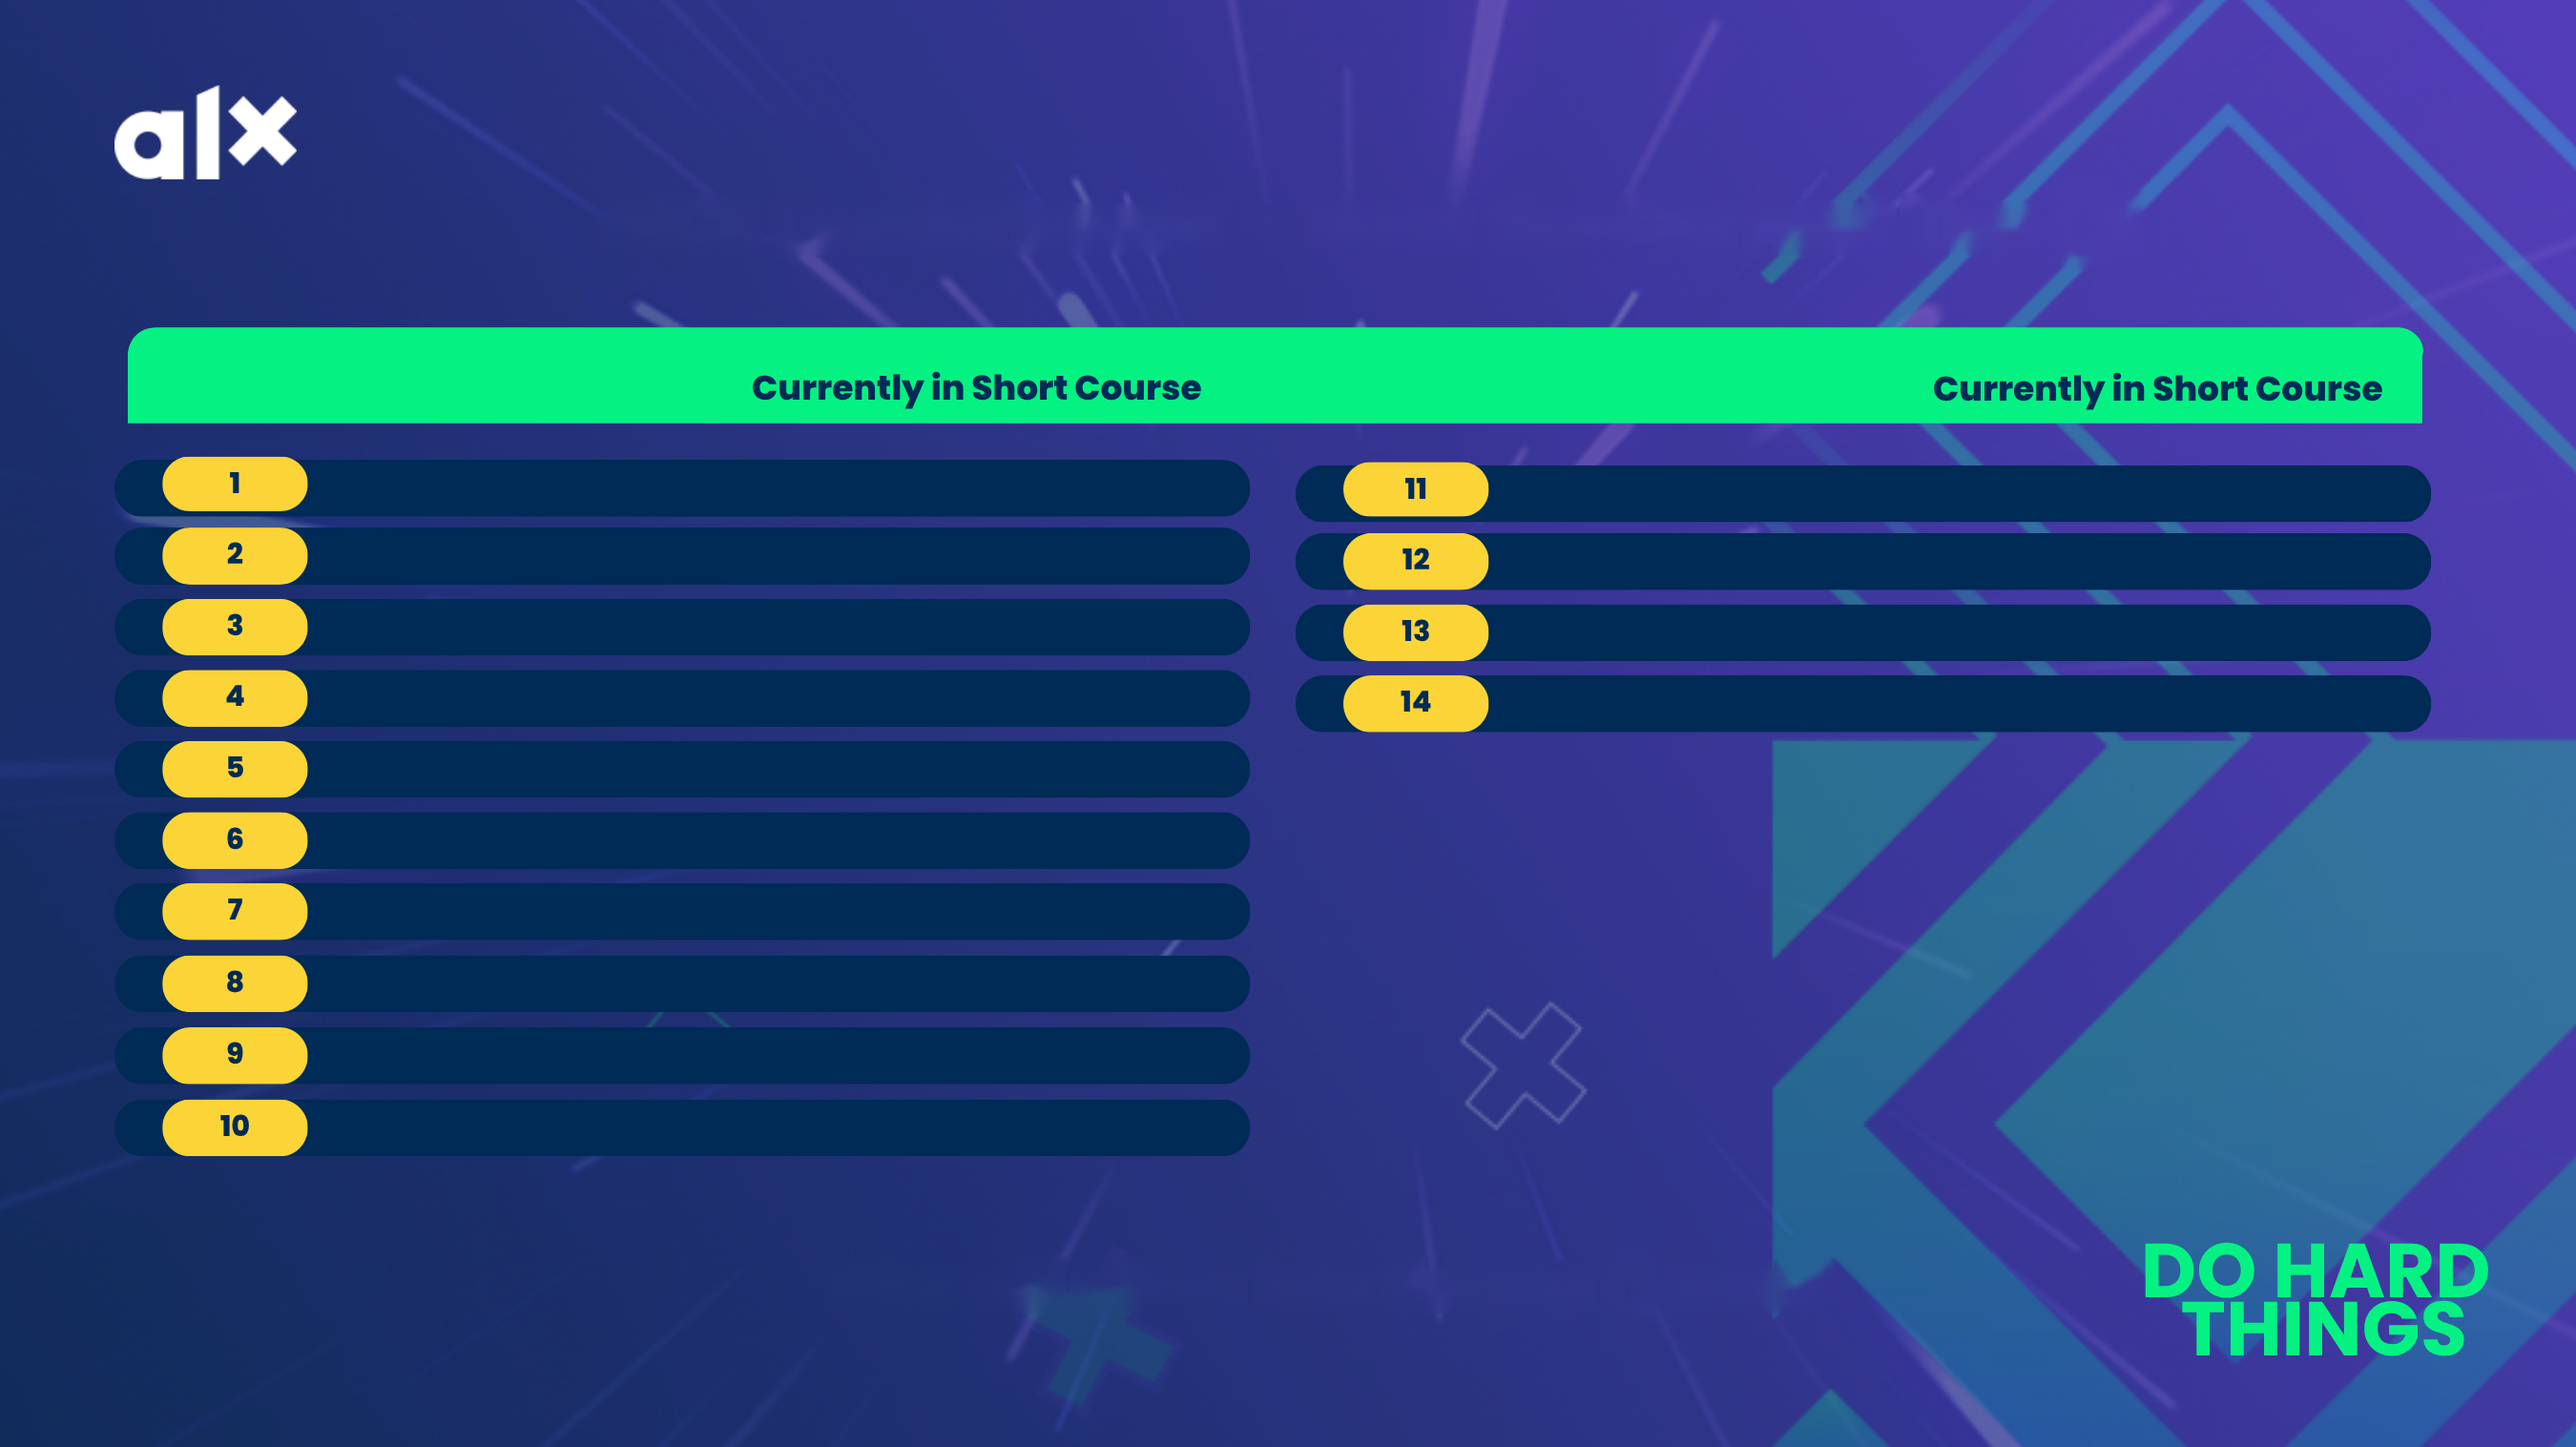
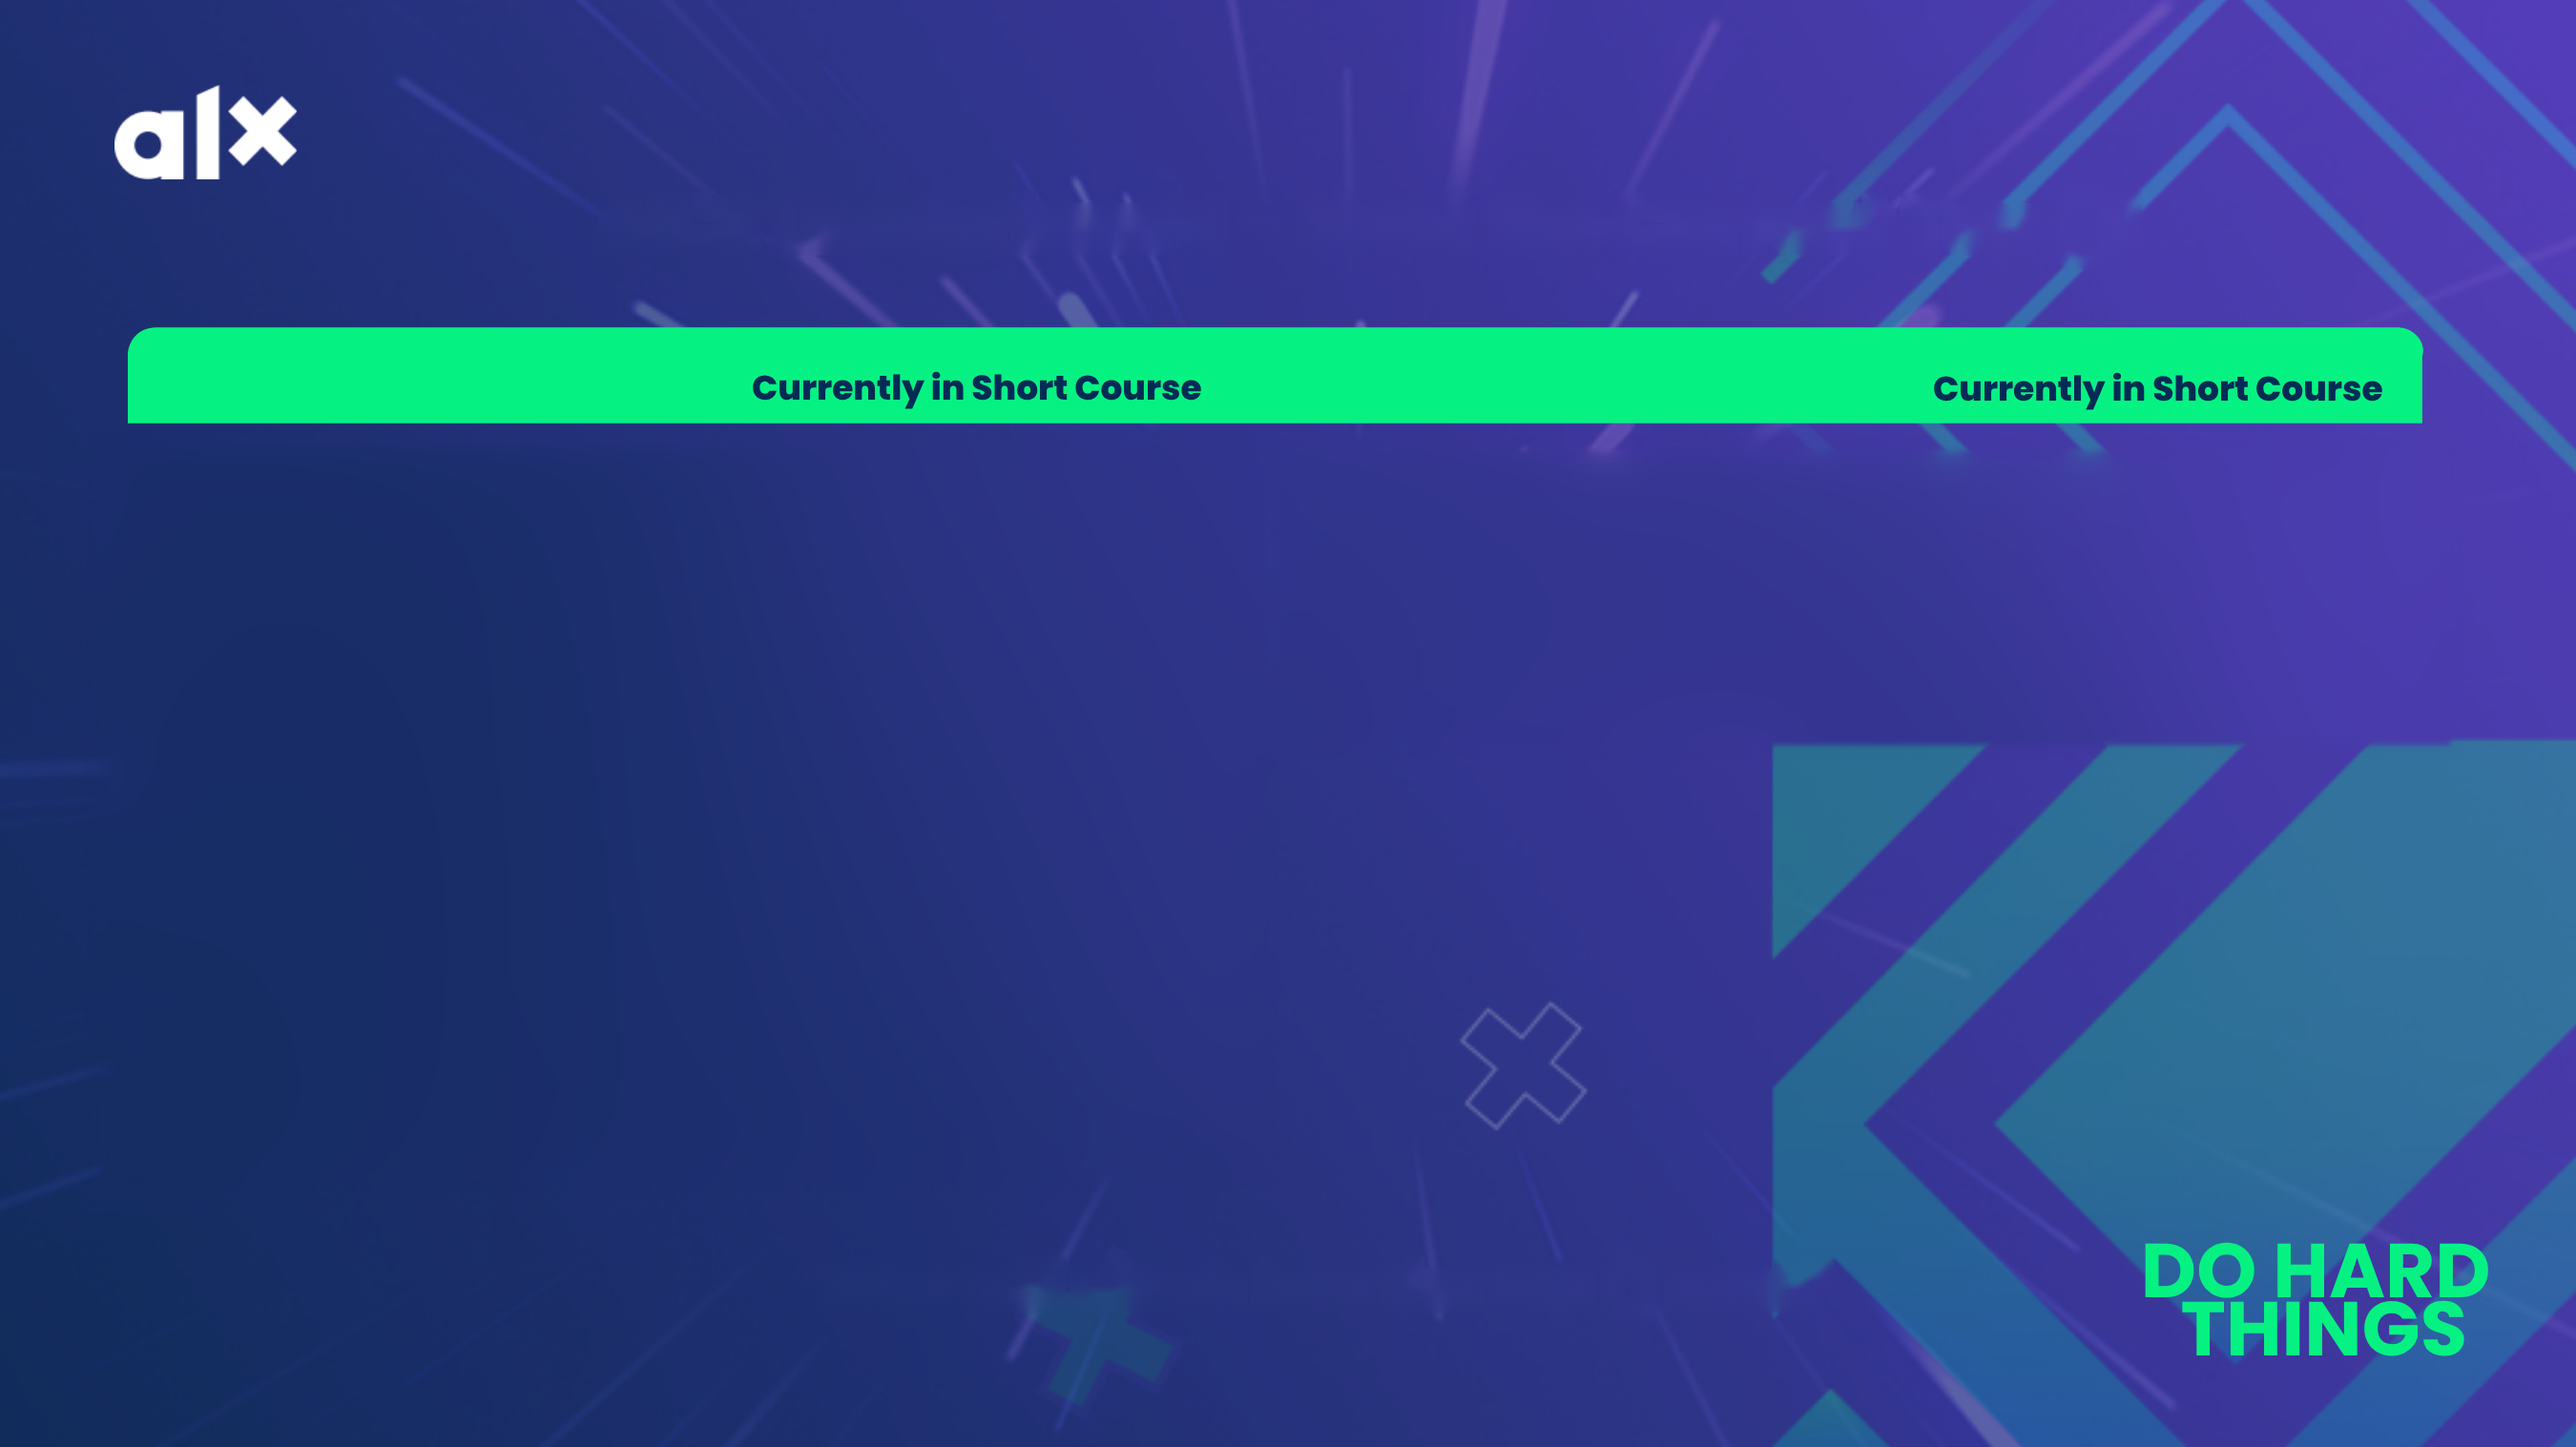
Add files via upload

Changed region(s): [[0.0311, 0.3098, 0.9644, 0.8055]]

diff --git a/index.html b/index.html
@@ -49,26 +49,31 @@
     /* template.png has NO title/footer text, so these are drawn directly (no cover-up patches) */
     .title, .footer {
       position: absolute; display: flex; align-items: center; justify-content: center;
-      color: #ffcc00; font-weight: 700; white-space: nowrap; overflow: hidden;
+      color: #ffcc00; font-weight: 700; text-align: center; overflow: hidden;
     }
-    .title  { left: 150px; width: 762px; top: 66px;  height: 40px; font-size: 28px; }   /* centred on x=531 */
-    .footer { left: 233px; width: 560px; top: 481px; height: 36px; font-size: 20px; }   /* centred on x=513 */
+    /* Title wraps onto a second line when it is long (e.g. "Content Creation ...") */
+    .title  { left: 151px; width: 760px; top: 56px; height: 66px; font-size: 28px; line-height: 1.15; text-wrap: balance; }
+    .footer { left: 233px; width: 560px; top: 481px; height: 36px; font-size: 20px; white-space: nowrap; }
 
-    /* Measured from the template: pill height 21.5px; tops are set per row in JS */
-    .row {
-      position: absolute;
-      height: 21.5px; line-height: 21.5px;
-      display: flex; justify-content: space-between; align-items: center;
-      white-space: nowrap;
+    /* Pills are drawn here, so any number of rows (1-20) works. Measured from the original design. */
+    .row { position: absolute; height: 21.5px; }
+    .pill {
+      position: absolute; inset: 0; border-radius: 11px;
+      background: #002b56; box-shadow: 0 1px 3px rgba(0,0,0,.35);
     }
-    .row.left  { left: 126px; width: 341px; }   /* after badge, ends under the "Currently in Short Course" header edge */
-    .row.right { left: 586px; width: 339px; }
-
-    .student-name { font-size: 12px; font-weight: 700; color: #fff; overflow: hidden; flex: 1; min-width: 0; }
-    .class-tag    { font-size: 11px; font-weight: 700; color: #00ff88; margin-left: 8px; flex: none; }
+    .badge {
+      position: absolute; left: 18.6px; top: -1.4px; width: 56px; height: 21.5px; border-radius: 11px;
+      background: #fbd437; color: #002b56; font-size: 11.5px; font-weight: 800;
+      display: flex; align-items: center; justify-content: center; line-height: 1;
+    }
+    .row.left  { left: 44.4px; width: 440.4px; }
+    .row.right { left: 503px;  width: 440.3px; }
+    .student-name, .class-tag { position: absolute; top: 0; line-height: 21.5px; height: 21.5px; white-space: nowrap; }
+    .student-name { left: 81.6px; right: 125px; font-size: 12px; font-weight: 700; color: #fff; overflow: hidden; }
+    .class-tag    { right: 17.8px; font-size: 11px; font-weight: 700; color: #00ff88; }
 
     /* Calibration overlay (never included in the download) */
-    .card.guides .row { outline: 1px dashed rgba(255, 0, 120, .8); }
+    .card.guides .pill { outline: 1px dashed rgba(255, 0, 120, .8); }
   </style>
 
   <link rel="preconnect" href="https://fonts.googleapis.com">
@@ -97,11 +102,15 @@
   </div>
 
   <script>
-    const MAX_SLOTS = 14;      // 10 left + 4 right, as drawn in template.png
-    const LEFT_SLOTS = 10;
-    // Pill tops measured from template.png (1000x562 space)
+    const MAX_SLOTS = 20;      // 10 rows per column
+    const COL_ROWS  = 10;
+    // Pill tops measured from the original design (1000x562 space); right column sits 2.2px lower
     const LEFT_TOPS  = [178.5, 204.8, 232.6, 260.4, 287.8, 315.6, 343.0, 371.1, 398.9, 427.0];
-    const RIGHT_TOPS = [180.7, 207.0, 234.8, 262.2];
+    const RIGHT_TOPS = LEFT_TOPS.map(y => y + 2.2);
+
+    // How many names go in the left column.
+    // 11-20 names: left column fills to 10, the rest go right.  10 or fewer: split evenly so both columns stay balanced.
+    const leftCount = n => n > COL_ROWS ? COL_ROWS : Math.ceil(n / 2);
 
     // Demo data shown until a file is uploaded
     let programData = {
@@ -224,43 +233,46 @@
 
     /* ---------------- Rendering ---------------- */
     function fitName(el) {
-      // Shrink font a little for long names instead of cutting them off
+      // Shrink long names a little instead of cutting them off
       let size = 12;
       el.style.fontSize = size + "px";
-      while (el.scrollWidth > el.clientWidth && size > 8) {
-        size -= 0.5;
-        el.style.fontSize = size + "px";
-      }
+      while (el.scrollWidth > el.clientWidth && size > 8) { size -= 0.5; el.style.fontSize = size + "px"; }
+    }
+
+    function fitTitle(el) {
+      // Wrap first (CSS); if it still doesn't fit in two lines, shrink
+      let size = 28;
+      el.style.fontSize = size + "px";
+      while (el.scrollHeight > el.clientHeight && size > 16) { size -= 1; el.style.fontSize = size + "px"; }
     }
 
     function render() {
       const prog = select.value;
       const students = (programData[prog] || []).slice(0, MAX_SLOTS);
       const n = students.length;
+      const nLeft = leftCount(n);
 
-      $("cardTitle").textContent  = `${prog} Leaderboard - Meet the Current Top ${n}!`;
+      $("cardTitle").textContent  = `${prog} Leaderboard\u00A0- Meet the Current Top ${n}!`;
       $("footerText").textContent = `Who will climb into the top ${n} next?`;
+      fitTitle($("cardTitle"));
 
       const host = $("rows");
       host.innerHTML = "";
 
       students.forEach((s, i) => {
-        const isLeft = i < LEFT_SLOTS;
-        const slot = isLeft ? i : i - LEFT_SLOTS;
+        const isLeft = i < nLeft;
+        const slot = isLeft ? i : i - nLeft;
 
         const row = document.createElement("div");
         row.className = "row " + (isLeft ? "left" : "right");
         row.style.top = (isLeft ? LEFT_TOPS[slot] : RIGHT_TOPS[slot]) + "px";
 
-        const name = document.createElement("div");
-        name.className = "student-name";
-        name.textContent = s.name;               // textContent: no HTML injection
+        const pill = document.createElement("div");  pill.className = "pill";
+        const badge = document.createElement("div"); badge.className = "badge"; badge.textContent = i + 1;
+        const name = document.createElement("div");  name.className = "student-name"; name.textContent = s.name;
+        const tag = document.createElement("div");   tag.className = "class-tag"; tag.textContent = s.cls;
 
-        const tag = document.createElement("div");
-        tag.className = "class-tag";
-        tag.textContent = s.cls;
-
-        row.append(name, tag);
+        row.append(pill, badge, name, tag);
         host.appendChild(row);
         fitName(name);
       });
